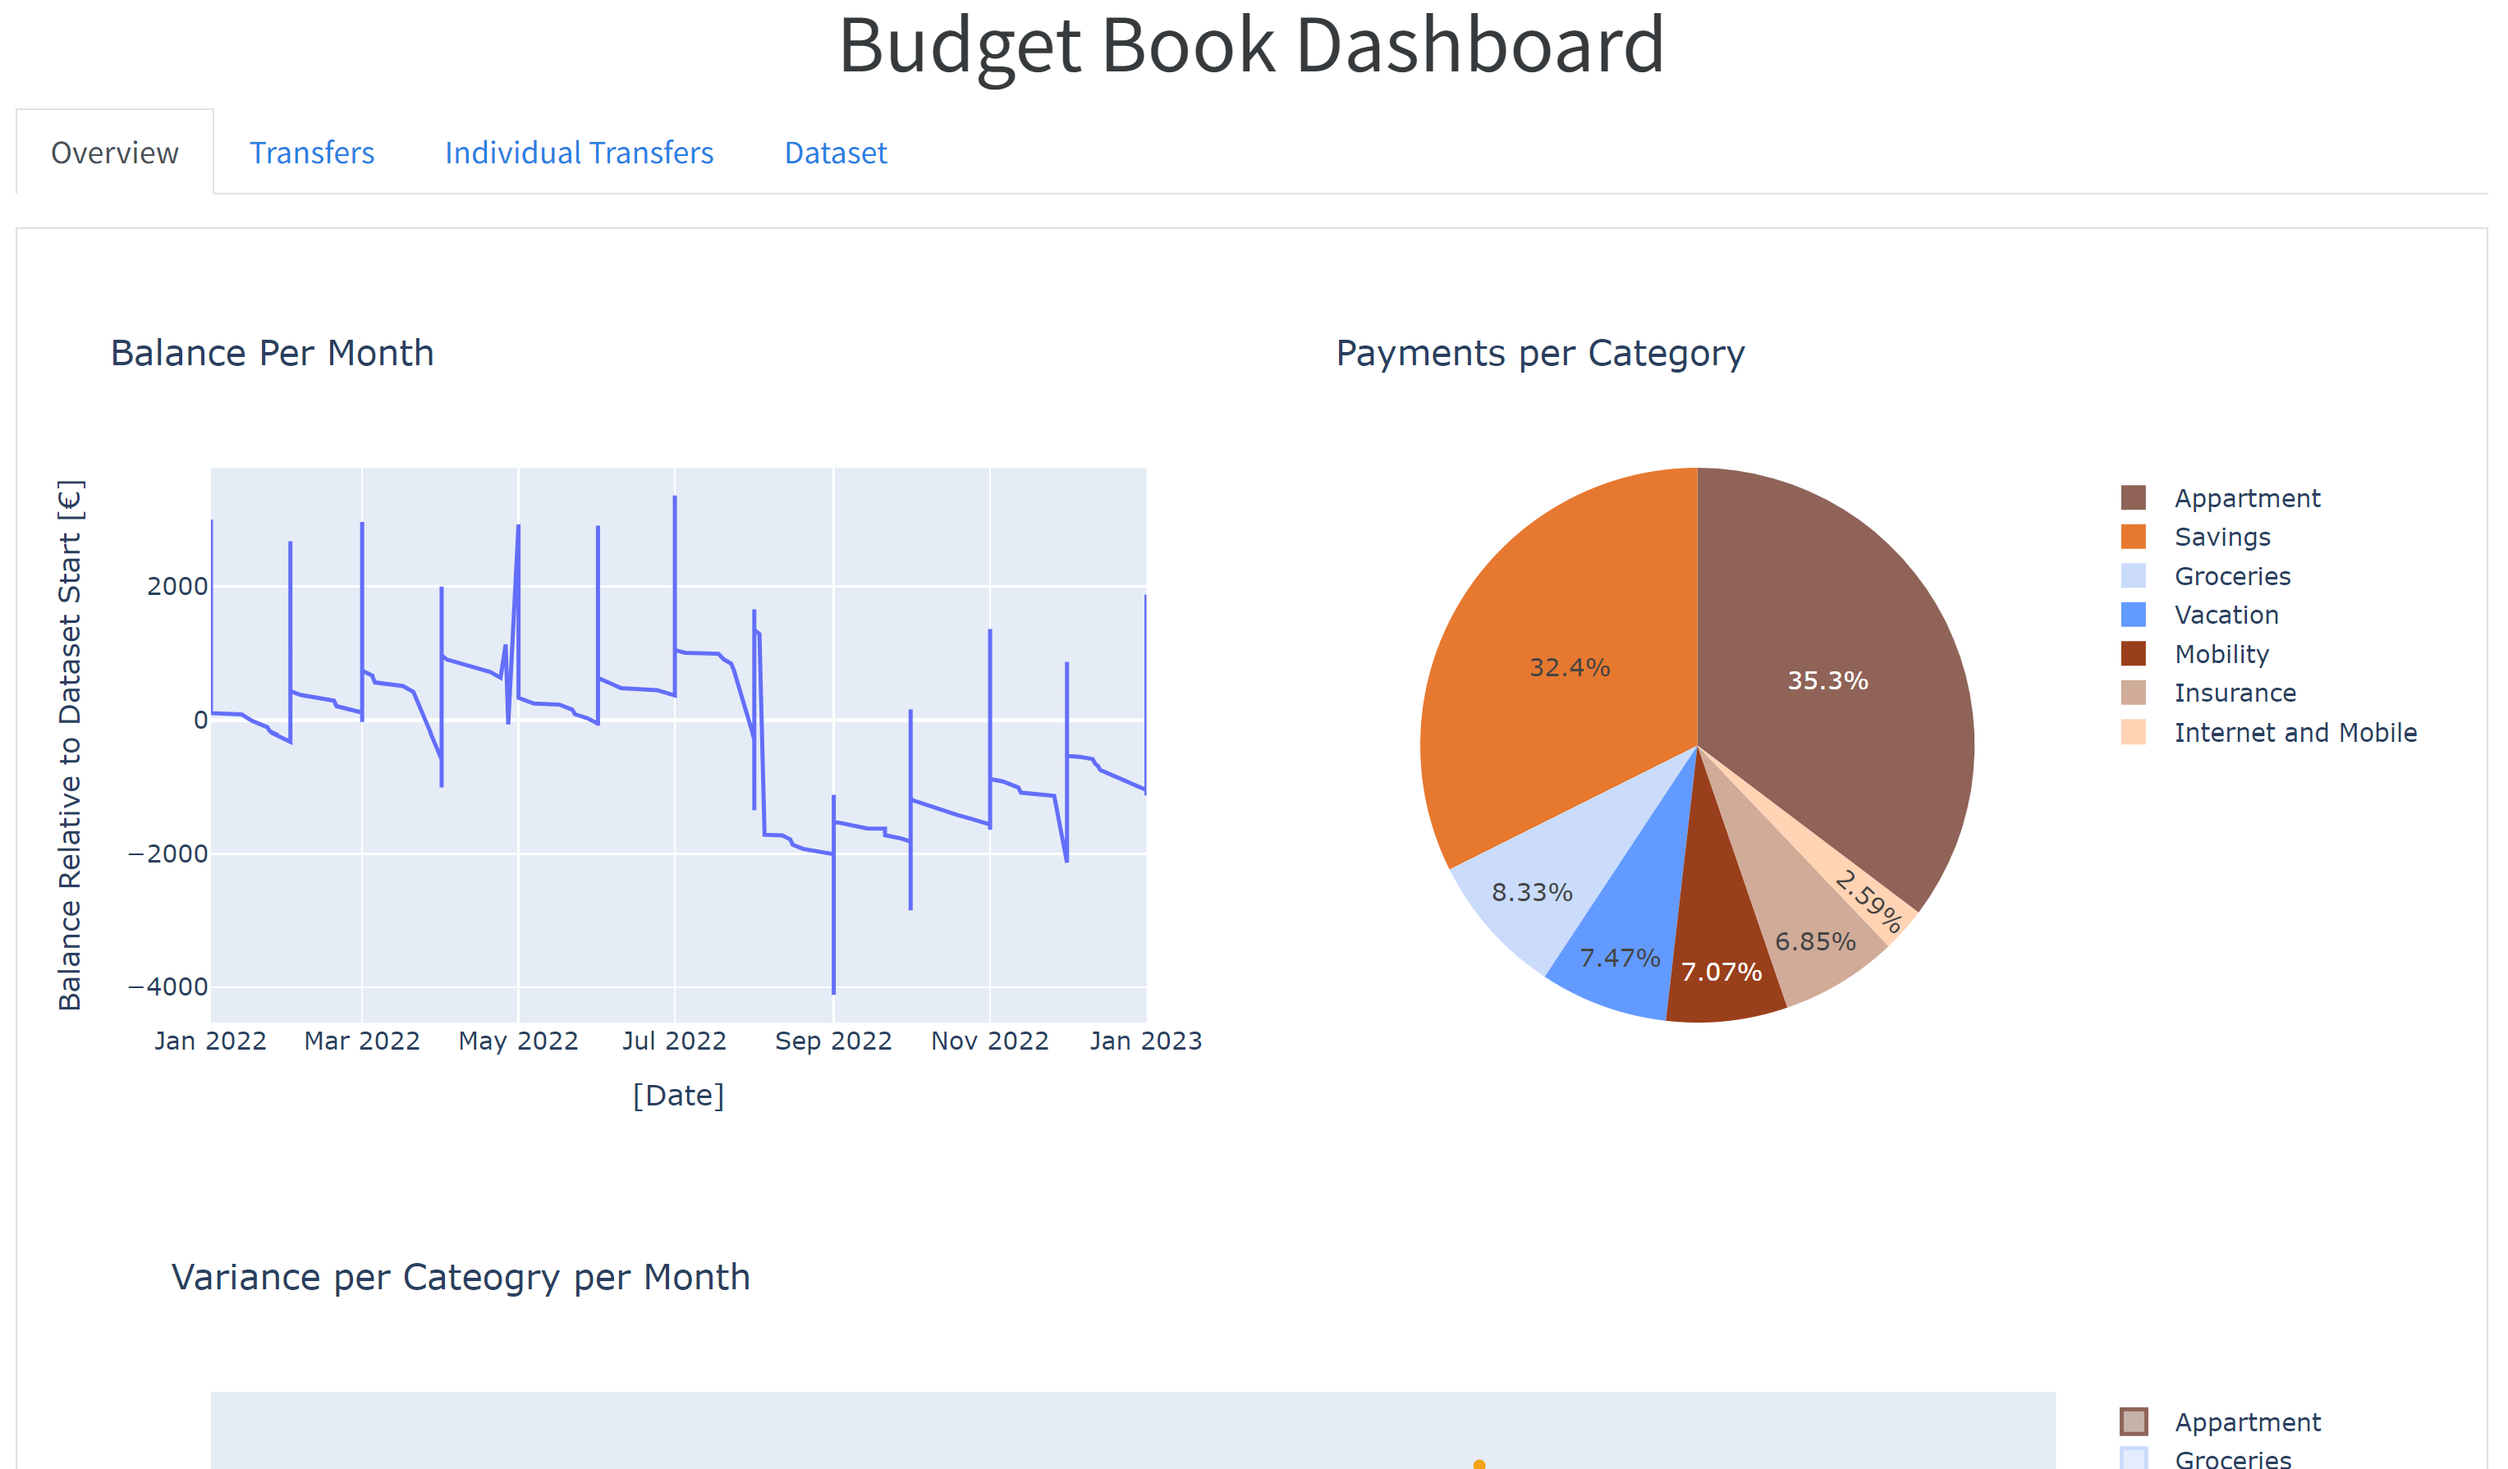
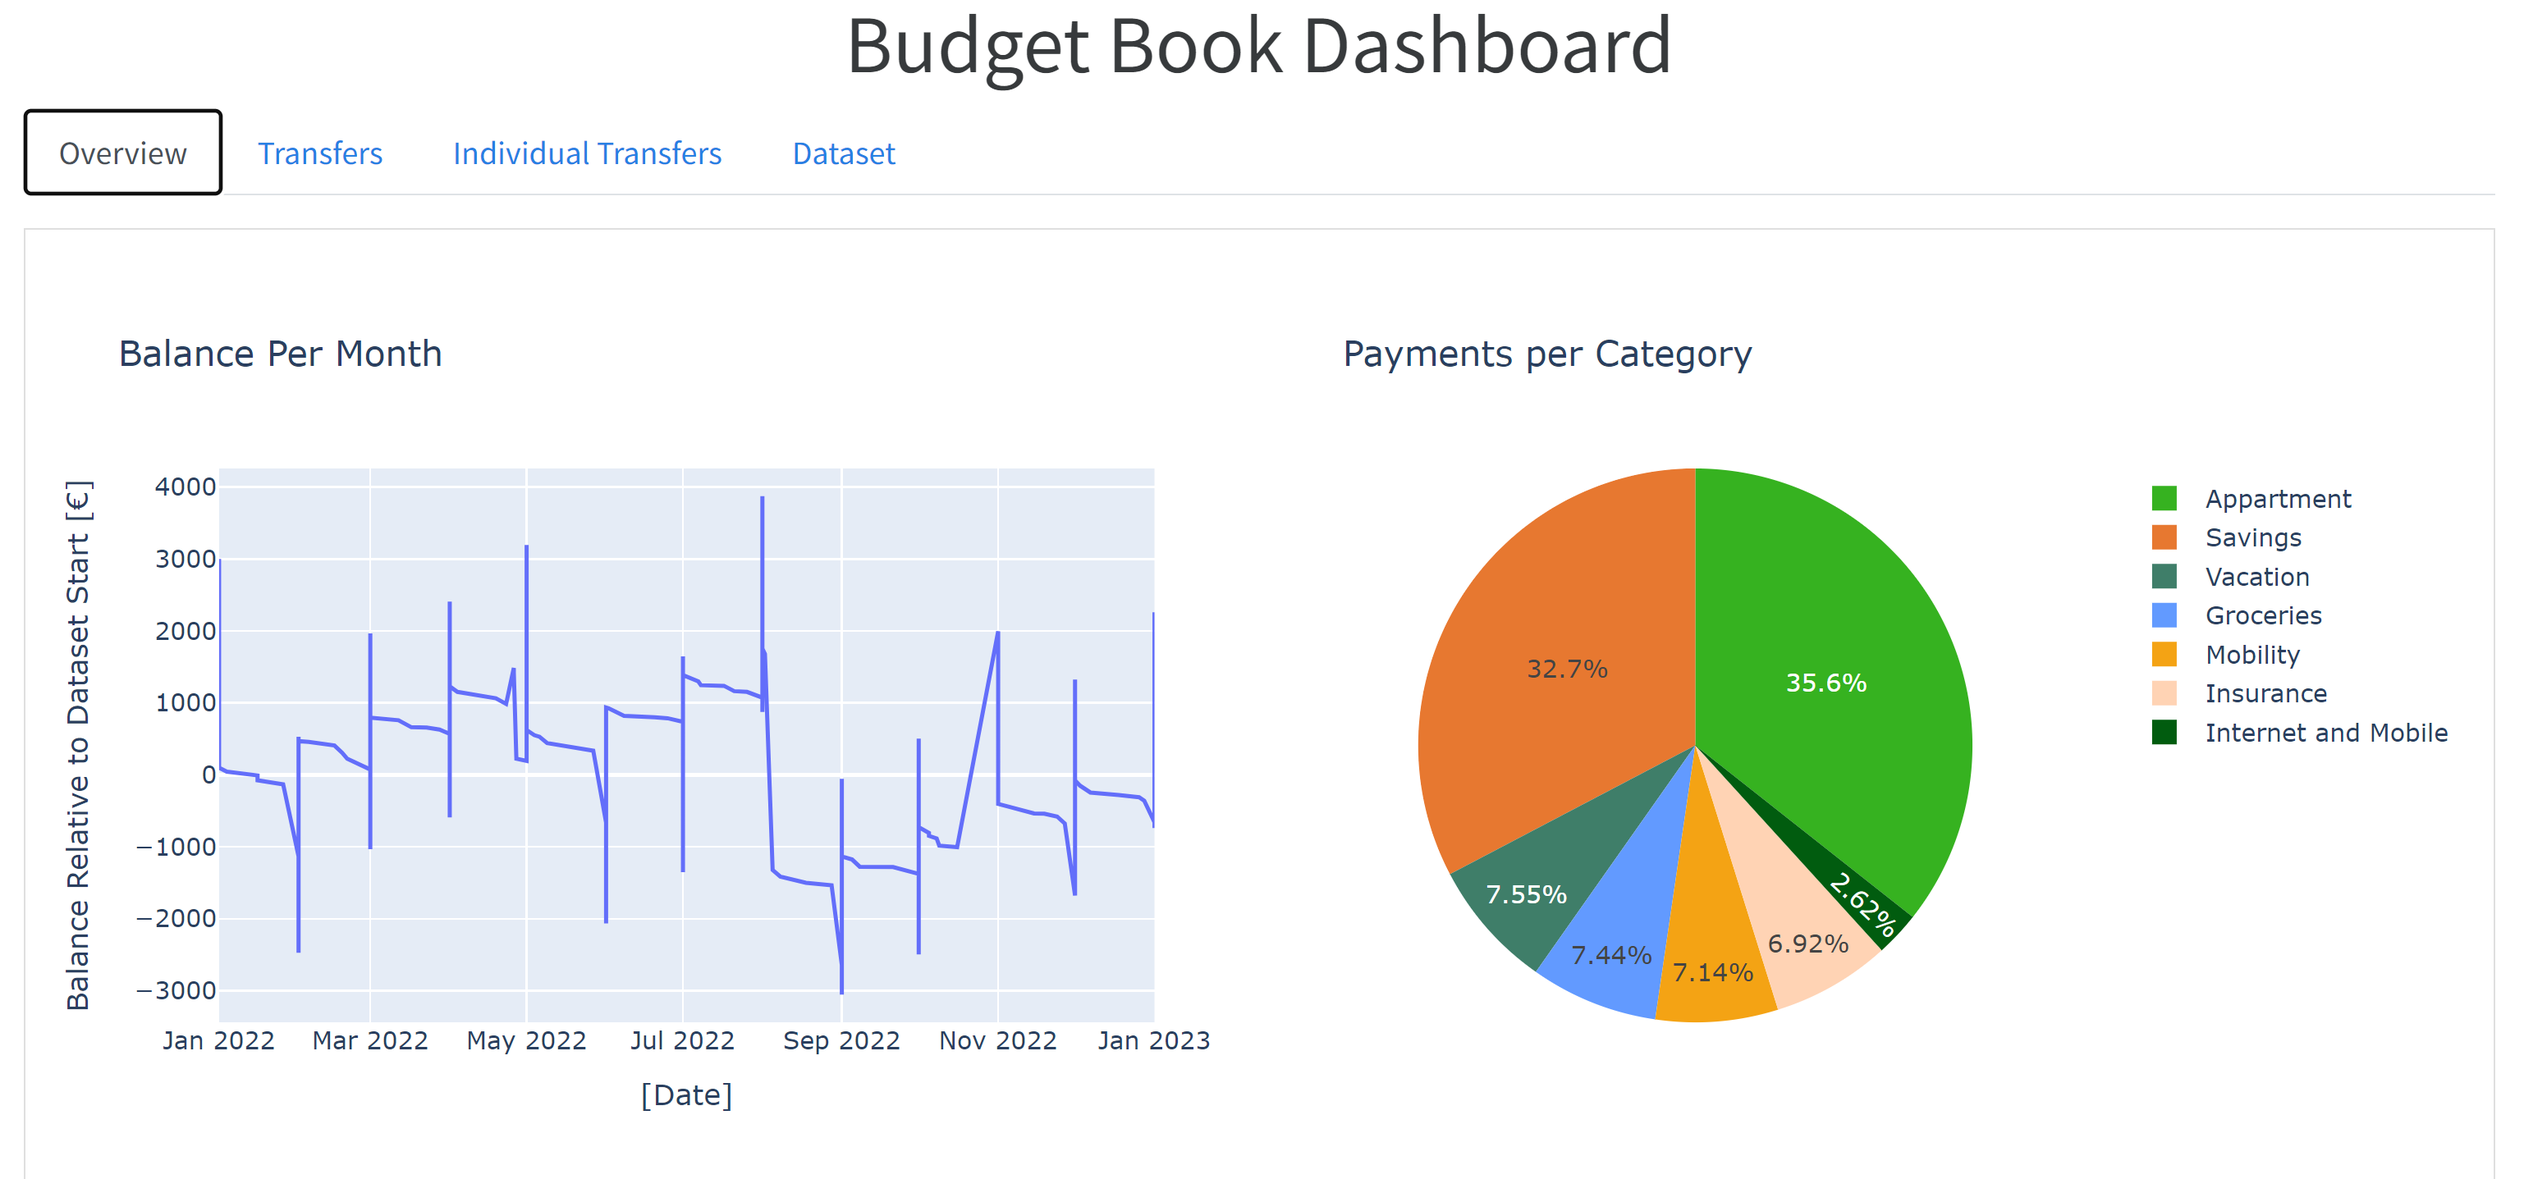
More plots, more docu, cleanup

diff --git a/src/BudgetBook/transaction_visualizer.py b/src/BudgetBook/transaction_visualizer.py
@@ -5,11 +5,13 @@ from dateutil.relativedelta import relativedelta
 
 import pandas as pd
 import plotly.graph_objects as go
+from BudgetBook.category_parser import CategoryParser
 
 from BudgetBook.dated_transaction import DatedTransaction
 from BudgetBook.regular_transaction import RegularTransaction
 from BudgetBook.config_parser import (
     Config,
+    ConfigKeywords,
     DataColumns,
     DATA_COLUMN_TO_DISPLAY_NAME,
 )
@@ -79,11 +81,19 @@ class TransactionVisualizer:
         self._to_dataframe()
 
         if self.dataset_is_valid():
+
+            categories_from_config = set(self._config.get_category_mapping().keys())
+            categories_from_dataset = set(self._dataframe_cache[DataColumns.CATEGORY].unique())
+
+            categories = categories_from_config.union(categories_from_dataset)
+            categories.add(ConfigKeywords.CATEGORY_DEFAULT_UNKNOWN_INCOME)
+            categories.add(ConfigKeywords.CATEGORY_DEFAULT_UNKNOWN_PAYMENT)
+
+            categories = sorted(categories)
+
             self.category_to_color_map = {
-                c: COLORMAP[idx]
-                for idx, c in enumerate(
-                    self._dataframe_cache[DataColumns.CATEGORY].unique()
-                )
+                c: COLORMAP[idx % len(COLORMAP)]
+                for idx, c in enumerate(categories)
             }
 
     def dataset_is_valid(self):
@@ -341,6 +351,48 @@ class TransactionVisualizer:
         )
         return fig
 
+    def plot_payments_per_month_as_area(self):
+
+        if not self.dataset_is_valid():
+            return go.Figure()
+
+        
+        df = self._get_data_without_internal_transactions()
+
+        df = df[df[DataColumns.AMOUNT] < 0]
+        
+        df = (
+            df.groupby(["date_without_day", DataColumns.CATEGORY])
+            .sum()
+            .reset_index()
+        )
+
+
+        fig = go.Figure()
+
+        for category in df[DataColumns.CATEGORY].unique():
+            mask = df[DataColumns.CATEGORY] == category
+            curr_df = df[mask]
+            fig.add_trace(
+                go.Scatter(
+                    name=category,
+                    x=curr_df["date_without_day"],
+                    y=curr_df[DataColumns.AMOUNT].abs(),
+                    mode="lines",
+                    stackgroup="categories",
+                    marker_color=self.category_to_color_map[category],
+                    hovertemplate=f"%{{y:.2f}} {CURRENCY_SYMBOL}",
+                ),
+            )
+        fig.update_layout(
+            title="Payments Per Month",
+            xaxis_title="[Date]",
+            yaxis_title=f"Payments Per Month [{CURRENCY_SYMBOL}]",
+            margin=dict(l=20, r=20),
+            hovermode="x unified"
+        )
+        return fig
+
     def _get_data_without_internal_transactions(self):
         internal_transaction_categories = (
             self._config.get_internal_transaction_categories()
@@ -392,7 +444,7 @@ class TransactionVisualizer:
         )
         fig.update_layout(
             title="Payments per Category",
-            margin=dict(l=20, r=20),
+            margin=dict(l=0, r=0),
         )
         return fig
 

diff --git a/src/BudgetBook/category_parser.py b/src/BudgetBook/category_parser.py
@@ -1,5 +1,9 @@
-from BudgetBook.config_parser import DataColumns, ConfigKeywords, Config
+from BudgetBook.config_parser import DATA_COLUMN_TO_DISPLAY_NAME, DataColumns, ConfigKeywords, Config
 
+
+class InvalidCateogryMappingException(Exception):
+    def __init__(self, *args: object) -> None:
+        super().__init__(*args)
 
 class CategoryParser:
     def __init__(self, config: Config) -> None:
@@ -7,15 +11,34 @@ class CategoryParser:
         self._category_mapping = config.get_category_mapping()
         self._csv_columns_mapping = config.get_csv_columns_mapping()
 
+        self._validate_category_mapping()
+
+
+    def _validate_category_mapping(self):
+        for category, rules in self._category_mapping.items():
+            for rule_name, rule_value in rules.items():
+                valid_rule_names = [ConfigKeywords.CATEGORY_RULE_AND, ConfigKeywords.CATEGORY_RULE_OR, *DATA_COLUMN_TO_DISPLAY_NAME.keys()]
+                if rule_name not in valid_rule_names:
+                    raise InvalidCateogryMappingException(f"Provided rule name '{rule_name}' not allowed. Use one of: '{valid_rule_names}'.")
+
+                if type(rule_value) not in [list, dict]:
+                    raise InvalidCateogryMappingException(f"Provided rule value '{rule_value}' for rule '{rule_name}' not allowed. Use one of: 'list, dict'.")            
+        
+    def get_parent_category_for_child(self, child_category_name: str):
+        try:
+            return self._category_mapping[child_category_name][ConfigKeywords.CATEGORY_PARENT]
+        except KeyError:
+            return ""
+
     def get_category_for_record(self, record):
         if DataColumns.CATEGORY in record:
             return record[DataColumns.CATEGORY]
 
-        for category, mapping_rules in self._category_mapping.items():
-            if self._check_category_match(record, mapping_rules):
+        for category, rules in self._category_mapping.items():
+            if self._check_category_match(record, rules):
                 return category
 
-        return "Unknown Income" if record[DataColumns.AMOUNT] > 0 else "Unknown Payment"
+        return ConfigKeywords.CATEGORY_DEFAULT_UNKNOWN_INCOME if record[DataColumns.AMOUNT] > 0 else ConfigKeywords.CATEGORY_DEFAULT_UNKNOWN_PAYMENT
 
     @staticmethod
     def _check_category_match(record, mapping_rules):

diff --git a/budget_book.py b/budget_book.py
@@ -196,6 +196,11 @@ def generate_transactions_per_category_tab(manager: TransactionVisualizer):
                     figure=manager.plot_transactions_per_month(),
                     style={"height": "80vh"},
                 ),
+                dcc.Graph(
+                    id="transactions_per_month_area",
+                    figure=manager.plot_payments_per_month_as_area(),
+                    style={"height": "80vh"},
+                ),
             ]
         ),
         className="mt-3",

diff --git a/src/BudgetBook/regular_transaction_builder.py b/src/BudgetBook/regular_transaction_builder.py
@@ -12,7 +12,7 @@ class RegularTransactionBuilder:
         self._scheduled_transactions = []
         self._current_category = None
 
-    def get_scheduled_transactions(self) -> List[RegularTransaction]:
+    def transactions_to_dataframe(self) -> List[RegularTransaction]:
         return self._scheduled_transactions
 
     def set_first_ocurrence(self, year: int, month:int = 1, day:int = 1) -> None:

diff --git a/src/BudgetBook/config_parser.py b/src/BudgetBook/config_parser.py
@@ -10,6 +10,8 @@ class ConfigKeywords:
     CATEGORY_RULE_AND = "and"
     CATEGORY_RULE_OR = "or"
 
+    CATEGORY_DEFAULT_UNKNOWN_INCOME = "Unknown Income"
+    CATEGORY_DEFAULT_UNKNOWN_PAYMENT  = "Unknown Payment"
     CSV_STATEMENT_PARSER_TOPLEVEL = "statement_parser"
     CSV_COLUMNS_TOPLEVEL = "csv_columns"
 

diff --git a/example_data.py b/example_data.py
@@ -54,4 +54,4 @@ def build_dataset():
         for month in range(1, 13):
             builder.build_dated_transaction("Shopping at XY", -random.random() * 100, date(2022, month, random.randint(1, 28)))
 
-    return builder.get_scheduled_transactions()
+    return builder.transactions_to_dataframe()

diff --git a/README.md b/README.md
@@ -28,8 +28,9 @@
 # Screenshots
 ### Overview
 ![](doc/img/example_data_tab1.png)
-### Transfer Overview per Month and Category
+### Overview per Month and Category
 ![](doc/img/example_data_tab2.png)
+![](doc/img/example_data_tab2_2.png)
 ### Detailed Visualization
 ![](doc/img/example_data_tab3_1.png)
 ![](doc/img/example_data_tab3_2.png)
@@ -92,9 +93,13 @@ Click on "update" to regenerate the visualization. Depending on the size of your
 ![](doc/img/example_data_tab1.png)
 
 ## How to define regular transactions manually as code
-Define a python file and provide the transactions there.
-Take a look at `example_data.py` for more details. 
-Here is an example:
+Sometimes it's better to manually write down your regular expenses by hand.
+That allows you to get rid of irregular expenses and gives you a clearer
+picture on your regular expenses. 
+
+This can be done by defining the expenses (and earnings) in a python file.
+Below you find a short introduction. Take a look at `example_data.py` for more details. 
+
 ```python
 # The function needs to be called exactly like this!
 def build_dataset():
@@ -128,14 +133,14 @@ def build_dataset():
     builder.build_regular_transaction("My Other Insurance", -150.0, "Insurance for XY")
 
     # Generate final dataset
-    return builder.get_scheduled_transactions()
+    return builder.transactions_to_dataframe()
 ```
 
-The defined dataset can then be visualized by passing it to the webserver:
+The dataset can then be visualized by passing it to the webserver:
 
 ```bash
 source ./venv/Scripts/activate
-python budget_book.py --from-module example_data.py configuration.yaml
+python budget_book.py --from-module example_data example_data_config.yaml
 ```
 
 Note: The dataset needs to be in a loadable module. Try to keep it inside the budget book repository.
